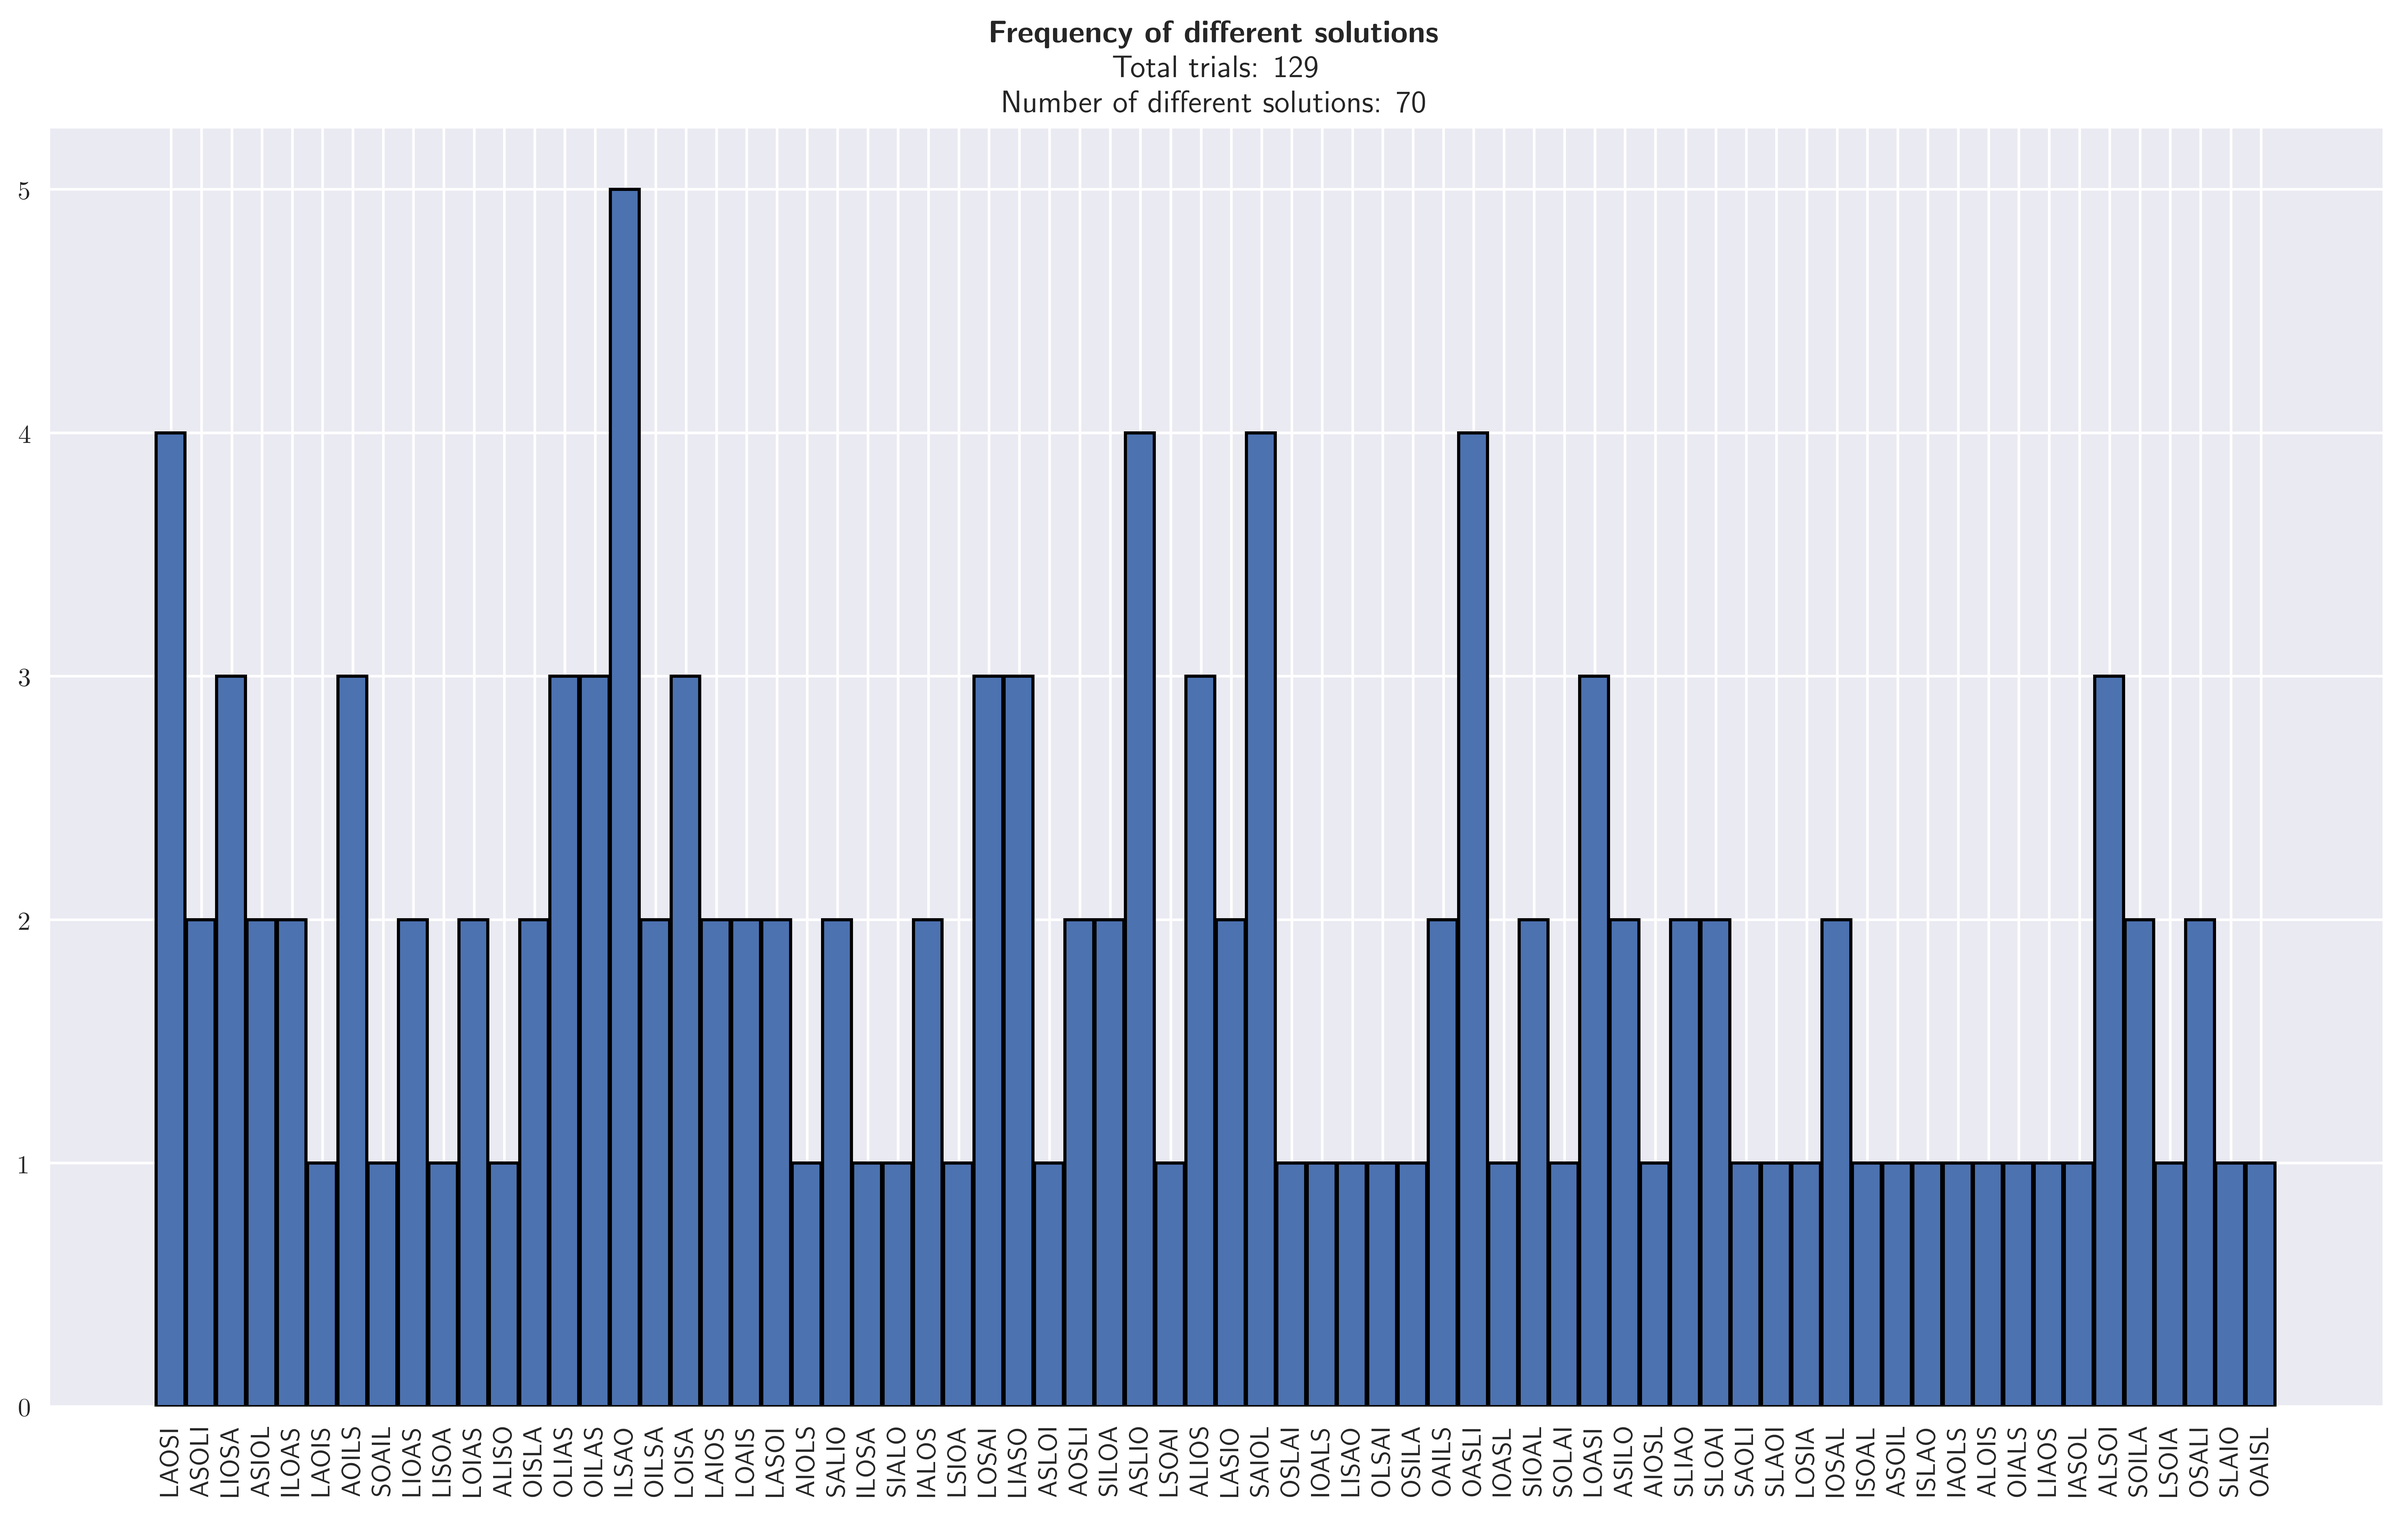
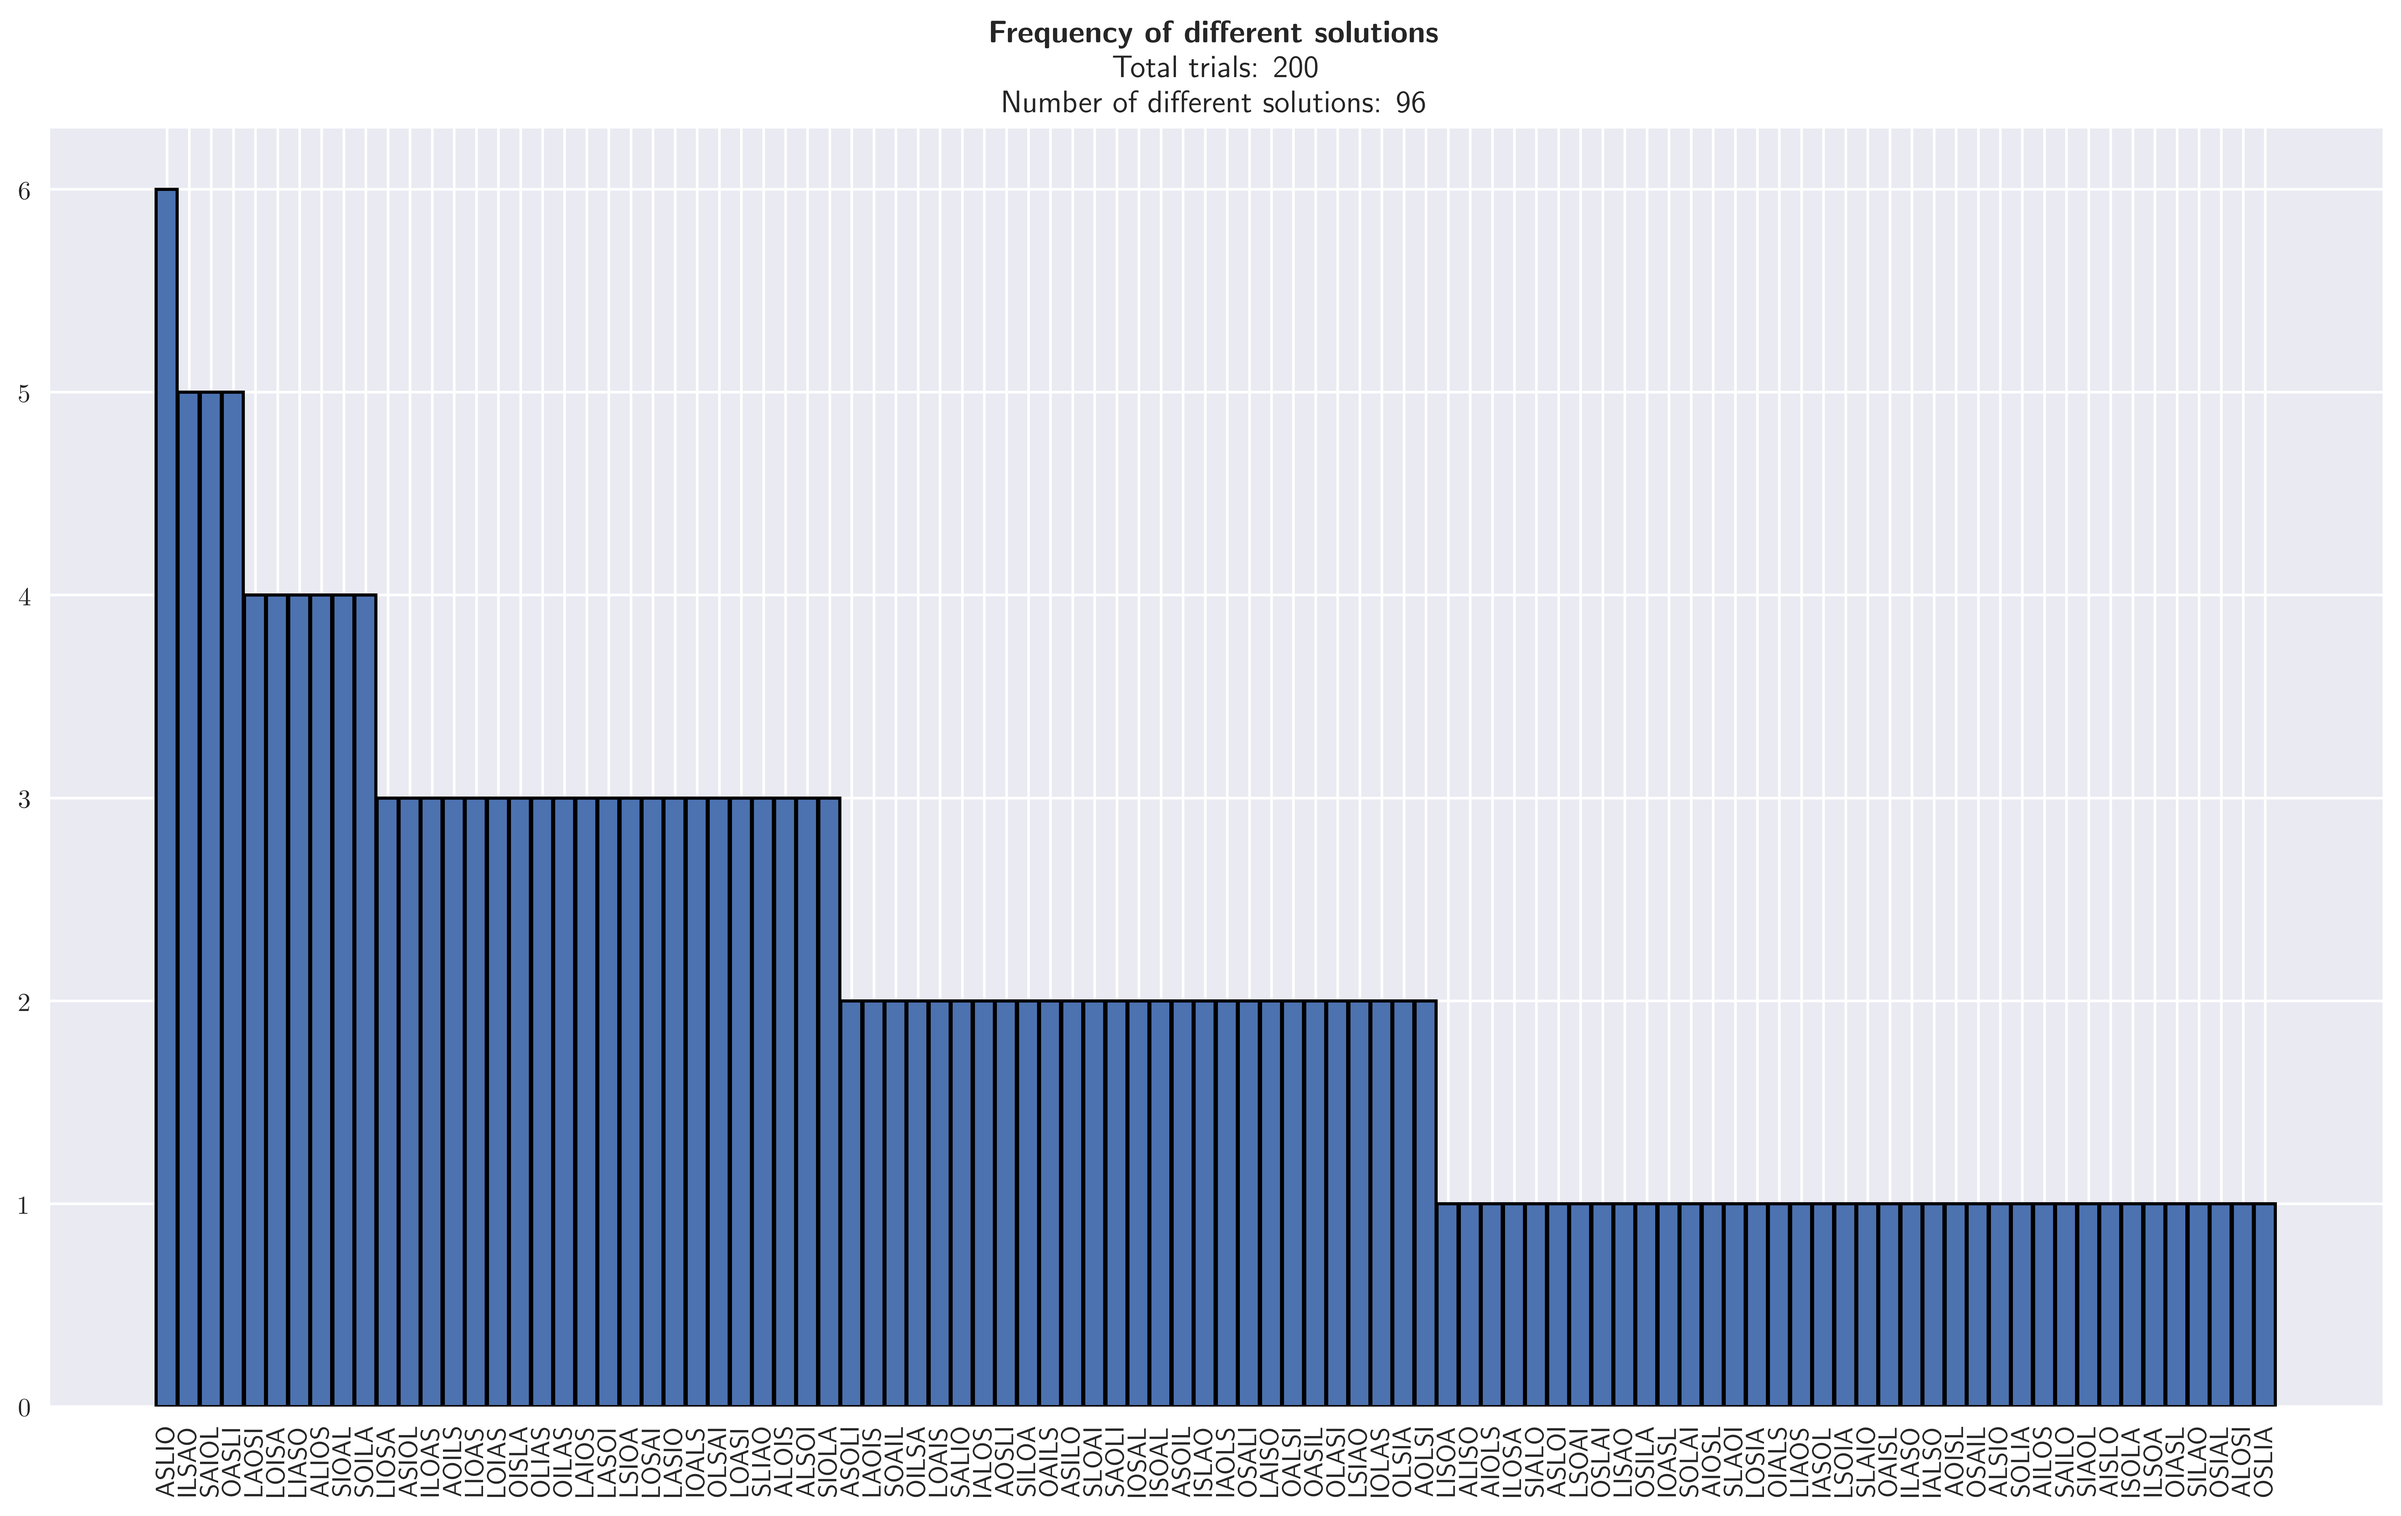
Added some functions. One is for plotting the histogram in descending order.

Changed region(s): [[0.0624, 0.1249, 0.9674, 0.9992]]

diff --git a/solutionScraper.py b/solutionScraper.py
@@ -7,6 +7,8 @@
 #%% Imports
 from selenium import webdriver
 from bs4 import BeautifulSoup
+from collections import Counter
+from itertools import repeat, chain
 import re
 import time
 import numpy as np
@@ -139,11 +141,12 @@ class SEI_quiz(SEI_Selenium):
         self.solutionInputField.submit()
 
 
-#%% Main
-if __name__ == '__main__':
+#%% Functions
+
+def scrapeSEIData(numberIterations):
     # Scraping data
     solutions = np.asarray([])
-    for i in range(100):
+    for i in range(numberIterations):
         person = SEI_quiz()
         person.moveIter(person.start[0],person.start[1])
         person.solution()
@@ -151,24 +154,30 @@ if __name__ == '__main__':
         solutions = np.concatenate((solutions,person.solution), axis=None)
         person.driver.quit()
         print('Iteration '+ str(i+1) +' done!')
+    return solutions
 
-    # Save data
+
+def append2SaveFile(solutions,fileName):
     solutions2DataFrame = pd.DataFrame(solutions)
     fileList = glob.glob('*.csv')
-    if fileList.count('scrapedSolutionData.csv') >= 1:
+    if fileList.count(fileName) >= 1:
         print('Append scraped solutions to solution file...')
-        dataFrame = pd.read_pickle('scrapedSolutionData.csv')
+        dataFrame = pd.read_pickle(fileName)
         dataFrame = dataFrame.append(solutions2DataFrame, ignore_index=True)
-        dataFrame.to_pickle('scrapedSolutionData.csv')
+        dataFrame.to_pickle(fileName)
     else:
         print('Creating solution file...')
         print('Append scraped solutions to solution file...')
-        solutions2DataFrame.to_pickle('scrapedSolutionData.csv')
-    
+        solutions2DataFrame.to_pickle(fileName)
+
+def sortByFrequency(array):
+    return np.asarray(list(chain.from_iterable(repeat(i, c) for i,c in Counter(array).most_common())))
+
+def plotDataFromCSV(csvFile):
     # Plotting data in a histogram
-    solutionsDataFrame = pd.read_pickle('scrapedSolutionData.csv')
+    solutionsDataFrame = pd.read_pickle(csvFile)
     solutionsDataFrame.columns = ['Solutions']
-    solutionArray = np.asarray(solutionsDataFrame['Solutions']).astype('<U32')
+    solutionArray = sortByFrequency(np.asarray(solutionsDataFrame['Solutions']).astype('<U32'))
     with plt.style.context(('seaborn')):
         plt.figure(figsize=[16,9])
         bins = np.arange(len(np.unique(solutionArray))+1)-0.5
@@ -177,6 +186,13 @@ if __name__ == '__main__':
         plt.title(r'\textbf{Frequency of different solutions}'
                   + '\nTotal trials: ' + str(len(solutionArray))
                   + '\nNumber of different solutions: ' + str(len(np.unique(solutionArray))))
+#%% Main
+if __name__ == '__main__':
+    solutions = scrapeSEIData(1)
+    append2SaveFile(solutions,'scrapedSolutionData.csv')
+    plotDataFromCSV('scrapedSolutionData.csv')
+    
+    
     
     
 
